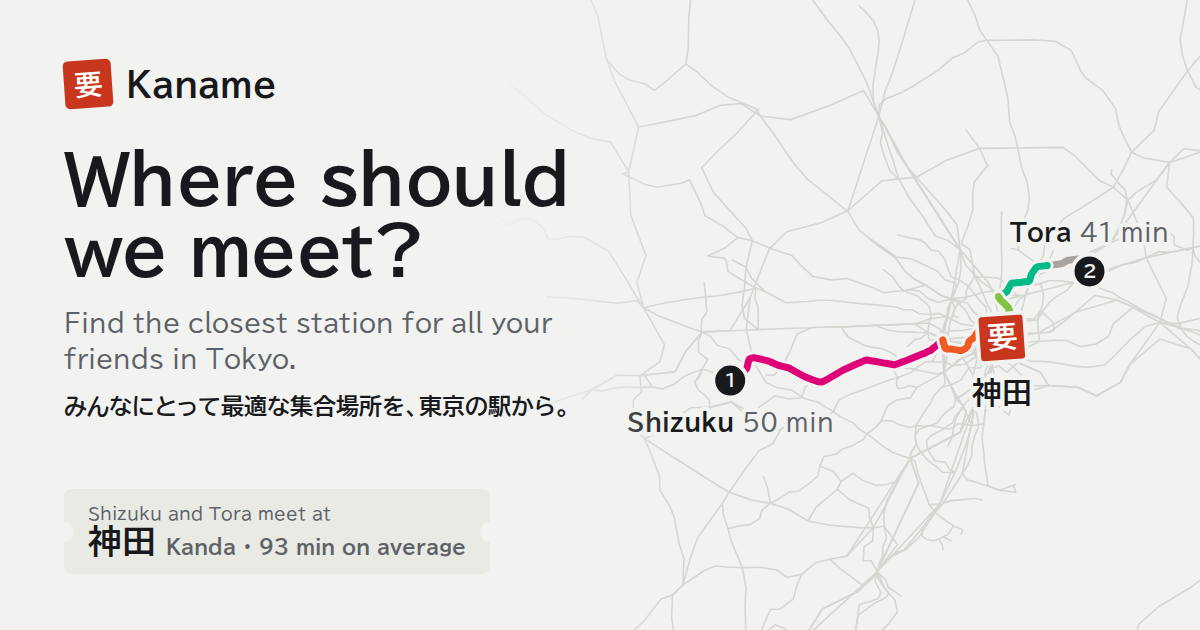
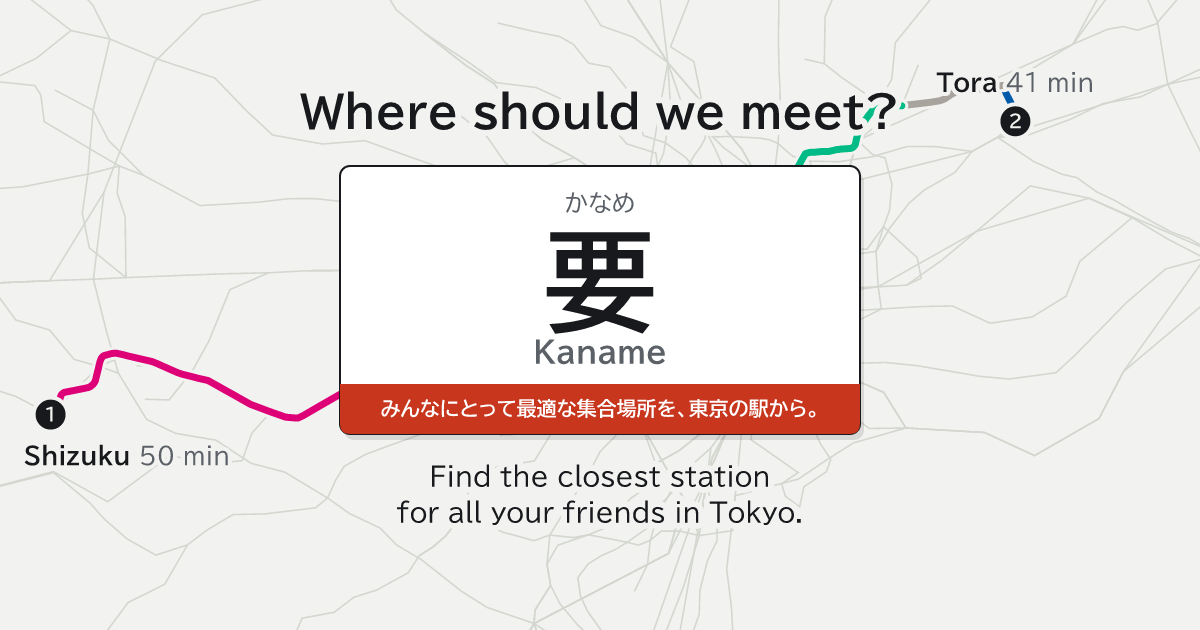
feat: the site's preview picture is a 要 station sign in the middle, so a square crop keeps it
Instagram crops the general picture as it does a plan's. The picture now uses the plan cards' layout:
a sign with かなめ, 要, Kaname and the Japanese line, the example group's trains running in to it,
"Where should we meet?" above and the owner's line below, all inside the middle square. The script
draws it with resvg and the local fonts instead of a browser with Google Fonts.

diff --git a/web/preview/card.ts b/web/preview/card.ts
@@ -260,28 +260,49 @@ function bandColor(data: MatrixData, station: number): string {
   return /^#[0-9a-f]{6}$/i.test(color) ? color : COLORS.ink;
 }
 
-/** The station sign: who meets, the station in Japanese and English, a band in the line's color with the numbers, and the seal. */
-function signSvg(best: CandidateResult, band: string): string {
-  const { ink, muted, seal, paper } = COLORS;
+/** The words on a station sign. */
+export interface SignText {
+  /** A small line at the top, such as "Shizuku and Tora meet at". */
+  readonly lead: string;
+  /** The large name, such as 神田. */
+  readonly name: string;
+  /** The name in English. */
+  readonly en: string;
+  /** The line on the band. */
+  readonly band: string;
+}
+
+/** A station sign: the lead, the name in Japanese and English, a colored band with a line, and the 要 seal at the corner if `seal`. */
+export function signSvg(text: SignText, band: string, seal: boolean): string {
+  const { ink, muted, paper } = COLORS;
   const { x0, y0, w, h } = SIGN;
   const cx = x0 + w / 2;
-  const lead = `${namesText(best.people.map((p) => shorten(p.label)))} meet at`;
-  const size = stationFontSize(best.station.ja);
+  const size = stationFontSize(text.name);
   const nameY = y0 + 58 + size * 0.88;
-  const { average, hardest } = plainSummary(best);
-  const line = `${Math.round(average)} min on average · hardest trip ${hardest.minutes} min (${shorten(hardest.label)})`;
-  const lineSize = fitSize(line, BAND_TEXT_MAX, w - 50);
+  const lineSize = fitSize(text.band, BAND_TEXT_MAX, w - 50);
   const bandTop = y0 + h - BAND;
   const r = 10;
   return `<g class="sign"><rect x="${x0 + 4}" y="${y0 + 6}" width="${w}" height="${h}" rx="${r}" fill="${ink}" opacity="0.12"/>`
     + `<rect x="${x0}" y="${y0}" width="${w}" height="${h}" rx="${r}" fill="${WHITE}" stroke="${ink}" stroke-width="2"/>`
-    + `<text ${FONT} x="${cx}" y="${y0 + 46}" font-size="${fitSize(lead, LEAD_MAX, w - 120)}" fill="${muted}" text-anchor="middle">${escapeXml(lead)}</text>`
-    + `<text class="station" ${FONT} x="${cx}" y="${nameY.toFixed(0)}" font-size="${size}" font-weight="700" fill="${ink}" text-anchor="middle">${escapeXml(best.station.ja)}</text>`
-    + `<text ${FONT} x="${cx}" y="${(nameY + 40).toFixed(0)}" font-size="${fitSize(best.station.en, 30, w - 60)}" font-weight="700" fill="${muted}" text-anchor="middle">${escapeXml(best.station.en)}</text>`
+    + `<text ${FONT} x="${cx}" y="${y0 + 46}" font-size="${fitSize(text.lead, LEAD_MAX, w - 120)}" fill="${muted}" text-anchor="middle">${escapeXml(text.lead)}</text>`
+    + `<text class="station" ${FONT} x="${cx}" y="${nameY.toFixed(0)}" font-size="${size}" font-weight="700" fill="${ink}" text-anchor="middle">${escapeXml(text.name)}</text>`
+    + `<text ${FONT} x="${cx}" y="${(nameY + 40).toFixed(0)}" font-size="${fitSize(text.en, 30, w - 60)}" font-weight="700" fill="${muted}" text-anchor="middle">${escapeXml(text.en)}</text>`
     + `<path d="M${x0} ${bandTop} H${x0 + w} V${y0 + h - r} Q${x0 + w} ${y0 + h} ${x0 + w - r} ${y0 + h} H${x0 + r} Q${x0} ${y0 + h} ${x0} ${y0 + h - r} Z" fill="${band}"/>`
-    + `<text class="band" ${FONT} x="${cx}" y="${(bandTop + BAND / 2 + lineSize * 0.36).toFixed(0)}" font-size="${lineSize}" font-weight="700" fill="${textOn(band)}" text-anchor="middle">${escapeXml(line)}</text>`
-    + `<g transform="translate(${x0 + w - 30},${y0 + 8}) rotate(8)"><rect x="-32" y="-32" width="64" height="64" rx="6" fill="${seal}" stroke="${paper}" stroke-width="4"/>`
-    + `<text ${FONT} font-size="40" font-weight="700" fill="#fff" text-anchor="middle" y="14">要</text></g></g>`;
+    + `<text class="band" ${FONT} x="${cx}" y="${(bandTop + BAND / 2 + lineSize * 0.36).toFixed(0)}" font-size="${lineSize}" font-weight="700" fill="${textOn(band)}" text-anchor="middle">${escapeXml(text.band)}</text>`
+    + (seal ? `<g transform="translate(${x0 + w - 30},${y0 + 8}) rotate(8)"><rect x="-32" y="-32" width="64" height="64" rx="6" fill="${COLORS.seal}" stroke="${paper}" stroke-width="4"/>`
+      + `<text ${FONT} font-size="40" font-weight="700" fill="#fff" text-anchor="middle" y="14">要</text></g>` : "")
+    + "</g>";
+}
+
+/** A plan's sign: who meets where, and the average and the hardest trip on the band. */
+function planSign(best: CandidateResult): SignText {
+  const { average, hardest } = plainSummary(best);
+  return {
+    lead: `${namesText(best.people.map((p) => shorten(p.label)))} meet at`,
+    name: best.station.ja,
+    en: best.station.en,
+    band: `${Math.round(average)} min on average · hardest trip ${hardest.minutes} min (${shorten(hardest.label)})`,
+  };
 }
 
 /** Kaname's name at the top left. A square crop leaves it out, and nothing depends on it. */
@@ -298,14 +319,33 @@ function underSign([x, y]: readonly [number, number]): boolean {
   return x > SIGN.x0 + margin && x < SIGN.x0 + SIGN.w - margin && y > SIGN.y0 + margin && y < SIGN.y0 + SIGN.h - margin;
 }
 
-/** The map centered under a station sign. A badge at the sign's edge goes over the sign, so it stays readable. */
-export function planCardSvg({ data, best, people }: PlanCardInput): string {
-  const k = data.byId.get(best.station.id)!;
-  const meet: LngLat = [data.stations[k]!.lng, data.stations[k]!.lat];
+/** The map for a sign card: the parts under the sign, and the badges that go over it. */
+export interface SignMap {
+  /** The network, the routes and the badges that the sign covers. */
+  readonly under: string;
+  /** The badges at the sign's edge and beyond. */
+  readonly over: string;
+}
+
+/** The map centered under the station sign, with the meeting station under the sign. */
+export function signMap(data: MatrixData, people: readonly CardPerson[], meet: LngLat): SignMap {
   const px = meetProjection(mapPoints(people, meet), meet, MAP_BOX, MEET_AREA);
   const covered = people.filter((p) => underSign(px(p.start)));
   const shown = people.filter((p) => !underSign(px(p.start)));
-  return `<svg xmlns="http://www.w3.org/2000/svg" width="${W}" height="${H}" viewBox="0 0 ${W} ${H}">`
-    + `<rect width="${W}" height="${H}" fill="${COLORS.paper}"/>${networkSvg(data, px)}${routesSvg(people, px)}`
-    + `${badgesSvg(covered, meet, px)}${brandSvg()}${signSvg(best, bandColor(data, k))}${badgesSvg(shown, meet, px)}</svg>`;
+  return {
+    under: `${networkSvg(data, px)}${routesSvg(people, px)}${badgesSvg(covered, meet, px)}`,
+    over: badgesSvg(shown, meet, px),
+  };
+}
+
+/** A card's SVG document, on paper. */
+export function cardSvg(body: string): string {
+  return `<svg xmlns="http://www.w3.org/2000/svg" width="${W}" height="${H}" viewBox="0 0 ${W} ${H}"><rect width="${W}" height="${H}" fill="${COLORS.paper}"/>${body}</svg>`;
+}
+
+/** The plan's card: the map, Kaname's name, and the station sign. A badge at the sign's edge goes over the sign, so it stays readable. */
+export function planCardSvg({ data, best, people }: PlanCardInput): string {
+  const k = data.byId.get(best.station.id)!;
+  const map = signMap(data, people, [data.stations[k]!.lng, data.stations[k]!.lat]);
+  return cardSvg(`${map.under}${brandSvg()}${signSvg(planSign(best), bandColor(data, k), true)}${map.over}`);
 }

diff --git a/web/scripts/og.ts b/web/scripts/og.ts
@@ -1,26 +1,32 @@
 /**
- * Renders the link preview (static/og.png, 1200x630) and the icons from the real data, with Playwright.
- * Run with `npm --prefix web run og` after a design change; the build copies static/ into the site.
+ * Renders the site's link preview (static/og.png, 1200x630) and the icons from the real data.
+ * The preview is a 要 station sign in the middle, with the example group's trains running in to it, like
+ * a plan's preview (preview/card.ts). The sign and the words stay inside the middle square, which some
+ * chat apps keep when they crop. Run with `npm --prefix web run og` after a design change; the build
+ * copies static/ into the site.
  */
 import { chromium } from "@playwright/test";
 import { readFileSync, writeFileSync } from "node:fs";
+import { createRequire } from "node:module";
 import { join } from "node:path";
 import { defaultDataDir, loadMatrixData, loadRouteData } from "../../cli/loadData";
 import { rank } from "../core/rank";
 import { routeFor } from "../core/routes";
-import { cardPeople, COLORS, mapSvg } from "../preview/card";
+import { cardPeople, cardSvg, COLORS, SIGN, signMap, signSvg, textWidth, W } from "../preview/card";
+import { CARD_FONTS, renderPng } from "../preview/render";
 import type { LngLat } from "../src/model/geometry";
-import { plainSummary } from "../src/model/compare";
 import { parseShapes, stationsChecksum } from "../src/model/shapes";
 import { DEFAULT_PEOPLE, toParticipants } from "../src/model/scenario";
 
 const OUT = join(import.meta.dirname, "..", "static");
-const W = 1200;
-const H = 630;
-/** Where the routes sit: the right of the card, clear of the text. */
-const BOX = { x0: 730, y0: 130, x1: 1090, y1: 510 };
-const { paper: PAPER, ink: INK, muted: MUTED, seal: SEAL } = COLORS;
+const { paper: PAPER, ink: INK, seal: SEAL } = COLORS;
 const FONT = "https://fonts.googleapis.com/css2?family=BIZ+UDPGothic:wght@400;700&display=swap";
+const SVG_FONT = 'font-family="BIZ UDPGothic"';
+const HEADLINE = "Where should we meet?";
+/** The widest line of words, in pixels: inside the middle square, with a margin. */
+const TEXT_MAX = 560;
+const TAGLINE = ["Find the closest station", "for all your friends in Tokyo."] as const;
+const SIGN_TEXT = { lead: "かなめ", name: "要", en: "Kaname", band: "みんなにとって最適な集合場所を、東京の駅から。" } as const;
 
 const data = loadMatrixData(defaultDataDir());
 const routes = loadRouteData(defaultDataDir());
@@ -30,38 +36,22 @@ if (shapes === null) throw new Error("data/shapes.json does not fit the station 
 const best = rank(toParticipants(DEFAULT_PEOPLE), {}, data).candidates[0]!;
 const k = data.byId.get(best.station.id)!;
 const meet: LngLat = [data.stations[k]!.lng, data.stations[k]!.lat];
-// The same map as a plan's link preview (preview/card.ts), in the box on the right of this card.
+// The example group's trains run in under the sign, as a plan's do.
 const people = cardPeople(data, best, (station) => routeFor(routes, "out", k, station), shapes);
-const map = mapSvg(data, people, { at: meet, ja: best.station.ja }, BOX);
+const map = signMap(data, people, meet);
 
-const card = `<!doctype html><html><head><meta charset="utf-8"><link rel="stylesheet" href="${FONT}"><style>
-* { margin: 0; box-sizing: border-box; }
-body { width: ${W}px; height: ${H}px; overflow: hidden; background: ${PAPER}; font-family: "BIZ UDPGothic", sans-serif; color: ${INK}; position: relative; }
-svg { position: absolute; inset: 0; }
-.fade { position: absolute; inset: 0; background: linear-gradient(90deg, ${PAPER} 0%, ${PAPER} 40%, rgba(242, 243, 240, 0) 56%); }
-.text { position: absolute; left: 64px; top: 60px; width: 580px; display: grid; gap: 18px; }
-.brand { display: flex; align-items: center; gap: 14px; font: 700 34px "BIZ UDPGothic"; }
-.brand i { font-style: normal; width: 48px; height: 48px; display: grid; place-items: center; background: ${SEAL}; color: #fff; border-radius: 5px; font-size: 28px; transform: rotate(-4deg); }
-h1 { font: 700 66px/1.08 "BIZ UDPGothic"; letter-spacing: -0.01em; margin-top: 18px; }
-.sub { font: 400 25px/1.45 "BIZ UDPGothic"; color: ${MUTED}; max-width: 520px; }
-.ja { font: 700 23px "BIZ UDPGothic"; white-space: nowrap; }
-.ticket { position: absolute; left: 64px; bottom: 56px; display: grid; gap: 2px; padding: 16px 24px; background: #e8eae3; border-radius: 8px; }
-.ticket::before, .ticket::after { content: ""; position: absolute; top: 50%; margin-top: -10px; width: 20px; height: 20px; border-radius: 50%; background: ${PAPER}; }
-.ticket::before { left: -10px; } .ticket::after { right: -10px; }
-.ticket small { font: 400 17px "BIZ UDPGothic"; color: ${MUTED}; }
-.ticket b { font: 700 34px "BIZ UDPGothic"; }
-.ticket b span { font-size: 20px; color: ${MUTED}; margin-left: 10px; }
-</style></head><body>
-<svg viewBox="0 0 ${W} ${H}" width="${W}" height="${H}">${map}</svg>
-<div class="fade"></div>
-<div class="text">
-  <div class="brand"><i>要</i>Kaname</div>
-  <h1>Where should<br>we meet?</h1>
-  <p class="sub">Find the closest station for all your friends in Tokyo.</p>
-  <p class="ja">みんなにとって最適な集合場所を、東京の駅から。</p>
-</div>
-<div class="ticket"><small>${people.map((p) => p.label).join(" and ")} meet at</small><b>${best.station.ja}<span>${best.station.en} · ${Math.round(plainSummary(best).average)} min on average</span></b></div>
-</body></html>`;
+/** Centered words over the map, with a paper halo so a route under them does not hide them. */
+const words = (text: string, y: number, size: number, weight: number) =>
+  `<text ${SVG_FONT} x="${W / 2}" y="${y}" font-size="${size}" font-weight="${weight}" fill="${INK}" text-anchor="middle" paint-order="stroke" stroke="${PAPER}" stroke-width="12" stroke-linejoin="round">${text}</text>`;
+const bottom = SIGN.y0 + SIGN.h;
+const card = cardSvg(map.under
+  + words(HEADLINE, SIGN.y0 - 38, Math.min(46, Math.floor(TEXT_MAX / textWidth(HEADLINE))), 700)
+  + signSvg(SIGN_TEXT, SEAL, false)
+  + TAGLINE.map((line, i) => words(line, bottom + 52 + i * 36, 26, 400)).join("")
+  + map.over);
+const fonts = CARD_FONTS.map((f) => readFileSync(join(OUT, f)));
+const wasm = readFileSync(createRequire(import.meta.url).resolve("@resvg/resvg-wasm/index_bg.wasm"));
+writeFileSync(join(OUT, "og.png"), await renderPng(card, fonts, wasm));
 
 const icon = (size: number) => `<!doctype html><html><head><meta charset="utf-8"><link rel="stylesheet" href="${FONT}"><style>
 * { margin: 0; } body { width: ${size}px; height: ${size}px; display: grid; place-items: center; background: ${SEAL}; color: #fff; font: 700 ${Math.round(size * 0.62)}px/1 "BIZ UDPGothic"; }
@@ -76,7 +66,6 @@ async function render(html: string, width: number, height: number, file: string)
   await browser.close();
 }
 
-await render(card, W, H, "og.png");
 await render(icon(180), 180, 180, "apple-touch-icon.png");
 await render(icon(32), 32, 32, "favicon-32.png");
 writeFileSync(join(OUT, "favicon.svg"), `<svg xmlns="http://www.w3.org/2000/svg" viewBox="0 0 32 32"><rect width="32" height="32" rx="6" fill="${SEAL}"/>`

diff --git a/web/index.html b/web/index.html
@@ -97,11 +97,11 @@
     <meta property="og:image:type" content="image/png" />
     <meta property="og:image:width" content="1200" />
     <meta property="og:image:height" content="630" />
-    <meta property="og:image:alt" content="Two train routes on a Tokyo rail map meet at 神田 under a red 要 seal, next to the words Where should we meet?" />
+    <meta property="og:image:alt" content="A station sign for 要 Kaname, with two train routes on a Tokyo rail map running in to it, under the words Where should we meet?" />
     <meta property="og:locale" content="en_US" />
     <meta property="og:locale:alternate" content="ja_JP" />
     <meta name="twitter:card" content="summary_large_image" />
-    <meta name="twitter:image:alt" content="Two train routes on a Tokyo rail map meet at 神田 under a red 要 seal, next to the words Where should we meet?" />
+    <meta name="twitter:image:alt" content="A station sign for 要 Kaname, with two train routes on a Tokyo rail map running in to it, under the words Where should we meet?" />
     <link rel="preconnect" href="https://fonts.googleapis.com" />
     <link rel="preconnect" href="https://fonts.gstatic.com" crossorigin />
     <link href="https://fonts.googleapis.com/css2?family=BIZ+UDPGothic:wght@700&display=swap" rel="stylesheet" />

diff --git a/CLAUDE.md b/CLAUDE.md
@@ -35,7 +35,7 @@ Tokyo meetup optimizer. Read these before doing anything:
 - **2026-11-10: phone walkthrough fixes** (`web/e2e/walk.mjs`). Address matches near central Tokyo list first, each row shows the walk, "1 person", a shorter From hint, "Start your own plan" on the example's ticket, and base map names under our markers fade. Open: a shared link drops the walk from a typed place, so a friend can see another station. The owner is deciding whether the walk to the nearest station counts at all.
 - **2026-11-10: plan previews live.** A shared link's preview names the people and the station, and its picture shows each person's trains (`web/functions/`, `web/preview/`). The account is on Workers Paid ($5 a month), which the functions need (`docs/internal.md`, "Workers Paid, for plan previews").
 - **2026-11-10: personality, from mockups** (design canvas https://claude.ai/artifact/XyvTyAu8nFqj8DSDAVvEnx). The owner chose all of them and a conductor cat, Mu, as the mascot. Built so far: the seal stamp with ink and a phone tap; Mu (the cat; on a desktop it sits on the panel's top edge); the ticket punch on share; the cute loading train (index.html, only after 0.6 s). Plan previews now say one ticket-like line. Next: the station-sign footer, the loading train, the last-train countdown, the neon night theme and the やまのてせん easter egg (reuse the cute train on the real loop). Open: whether the walk to the nearest station counts (the owner's call); one rare failure of a random property test in `web/tests/rank.test.ts` that 12 full runs did not reproduce.
-- **2026-11-11: links and previews survive Instagram.** Instagram direct messages keep only a link's first parameter and crop the preview picture to its middle square. A plan link now holds the whole plan in one parameter (`?p=shibamata_Tora~kunitachi_Kai~fair.75~at.kanda`), and older links still open. The preview picture is a station sign in the middle of the map, inside the square that a crop keeps (the owner chose it from mockups). The site's general picture, `web/static/og.png`, still has its text on the left.
+- **2026-11-11: links and previews survive Instagram.** Instagram direct messages keep only a link's first parameter and crop the preview picture to its middle square. A plan link now holds the whole plan in one parameter (`?p=shibamata_Tora~kunitachi_Kai~fair.75~at.kanda`), and older links still open. The preview picture is a station sign in the middle of the map, inside the square that a crop keeps (the owner chose it from mockups). The site's general picture, `web/static/og.png`, is now a 要 station sign in the same layout.
 - **Open items:** the top 10 instead of 5 and a view of the tradeoff; weekday evenings only; no per-ride minutes; deep JR changes still about 1 min short on average; 26 stations without kana.
 
 ## Rules

diff --git a/LESSONS.md b/LESSONS.md
@@ -210,7 +210,7 @@ The owner set the goals, the gates and the product calls. Claude Code wrote most
 ### 28. A chat app can change your link on the way
 
 - What happened: the owner sent a plan link in an Instagram direct message. The link had one `p` parameter for each person, then `fair` and `at`, joined by `&`. Instagram kept only the first parameter. So the friend's link held one person, and the app needs two for a plan. The friend saw a one-person plan, and the preview had no plan in it. All tests passed, because every test used the link exactly as the app wrote it. Instagram also cropped the preview picture to its middle square. The station name was on the left of the picture, so the crop cut it off.
-- What we did: the whole plan now goes in one parameter, `?p=shibamata_Tora~kunitachi_Kai~fair.75~at.kanda`. A `~` separates the items. A name keeps only ASCII letters, digits, `_` and `-` as they are, and the link percent-encodes the rest. So a `~` or `&` in a name cannot split the plan, and a link never ends in punctuation that a chat app leaves out. Older links still open. A unit test cuts a link at its first `&` and checks that the plan is whole. In the end-to-end test, the friend opens only the first parameter. The picture became a station sign in the middle, inside the square that a crop keeps, with the map around it. Mockups of six group shapes chose the layout. A name under the meeting point collided with people's labels in five of the six. The sign hides only people who start near the station.
+- What we did: the whole plan now goes in one parameter, `?p=shibamata_Tora~kunitachi_Kai~fair.75~at.kanda`. A `~` separates the items. A name keeps only ASCII letters, digits, `_` and `-` as they are, and the link percent-encodes the rest. So a `~` or `&` in a name cannot split the plan, and a link never ends in punctuation that a chat app leaves out. Older links still open. A unit test cuts a link at its first `&` and checks that the plan is whole. In the end-to-end test, the friend opens only the first parameter. The picture became a station sign in the middle, inside the square that a crop keeps, with the map around it. Mockups of six group shapes chose the layout. A name under the meeting point collided with people's labels in five of the six. The sign hides only people who start near the station. The site's general picture got the same layout, with a 要 sign.
 - Lesson: a link and its picture go through apps that you do not control. Put everything that matters in the part that survives, and test them the way those apps change them.
 - Where to look: `web/src/model/share.ts`, `web/tests/app/share.test.ts`, the "a plan travels in the link" test in `web/e2e/plan.spec.ts`, `planCardSvg` in `web/preview/card.ts`.
 

diff --git a/DECISIONS.md b/DECISIONS.md
@@ -301,3 +301,4 @@ The M1 diagnosis was right for 千葉→渋谷 only. c11 now changes at 品川 w
 | 2026-11-11 | A plan preview's description is one ticket-like line: "93 min on average · longest trip 100 min (Shizuku) · last train 23:32 (Tora)" | The owner found the three short sentences choppy and machine-like ("with 0 changes" did not help), and chose this option. A preview cuts text after about two lines, and a line of facts still reads when cut. "Longest trip", not "longest ride", because the minutes are there and back. |
 | 2026-11-11 | A plan link holds the whole plan in one parameter: `?p=shibamata_Tora~kunitachi_Kai~fair.75~at.kanda`. A name keeps only ASCII letters, digits, `_` and `-` as they are. Older links still open | Instagram direct messages kept only the first parameter of a link, so a friend got a one-person plan and no preview. `~` is a plain URL character, and the link percent-encodes every `~` in a name. A link that ends in a letter or a digit does not lose its last character in a chat app. |
 | 2026-11-11 | A plan's preview picture is a station sign in the middle of a rail map. The sign stays inside the 630 by 630 square that a crop keeps. The meeting station stays under the sign. The band has the color of the station's first line, with ink or white text for more contrast. | Instagram cropped the picture to its middle and cut off the station name on the left. The owner chose the sign over a name under the meeting point: in mockups of six group shapes, the name collided with labels in five. The sign covers a person who starts near the station, but the "meet at" line still names them. |
+| 2026-11-11 | The site's general preview picture is a station sign for 要 Kaname, with the example group's trains running in to it. The sign shows かなめ, 要, Kaname, and the Japanese line on a red band. The headline `Where should we meet?` is above the sign, and the owner's line is below it. All of the words stay inside the middle square. | The owner asked for the same layout as the plan pictures, because Instagram crops this picture too. The script now draws it with resvg and the fonts in `web/static/`, as it draws the plan pictures. So it no longer loads fonts from Google. |

diff --git a/README.md b/README.md
@@ -163,7 +163,7 @@ A name keeps ASCII letters, digits, `_` and `-` as they are. The link percent-en
 
 Link previews need the full URL of the preview image. Set `KANAME_SITE_URL` to your site before the build, for example `KANAME_SITE_URL=https://example.org npm --prefix web run build`.
 
-`npm --prefix web run og` renders the preview image and the icons in `web/static/` from the real data. Run it again after a design change.
+`npm --prefix web run og` renders the preview image and the icons in `web/static/` from the real data. Like a plan's preview, the image is a 要 station sign in the middle of the map. The example group's trains run in to the sign. Run it again after a design change.
 
 ### Plan previews
 
